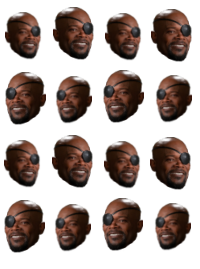
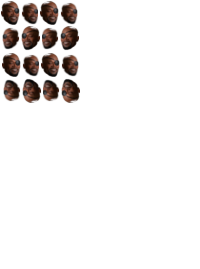
ajusta tamanho do nick e add fix bug a interface

diff --git a/src/Assemble/Action.cs b/src/Assemble/Action.cs
@@ -1,0 +1,25 @@
+using System;
+using System.Collections.Generic;
+using System.Linq;
+using System.Runtime.Serialization;
+using System.Text;
+using System.Threading.Tasks;
+
+namespace Assemble
+{
+    [DataContract]
+    public class Action
+    {
+        [DataMember(Name = "step")]
+        public string Step { get; set; }
+
+        [DataMember(Name = "cost")]
+        public int Cost { get; set; }
+
+        [DataMember(Name = "elemsToDestroy")]
+        public Point ElemToDestroy { get; set; }
+
+        [DataMember(Name = "kindToDestroy")]
+        public string KindToDestroy { get; set; }
+    }
+}

diff --git a/src/Assemble/Map.cs b/src/Assemble/Map.cs
@@ -104,7 +104,8 @@ namespace Assemble
                 case "MoveDown": return "s";
                 case "MoveLeft": return "w";
                 case "MoveRight": return "e"; 
-                case "Attack": return "attack";                   
+                case "Attack": return "attack";
+                case "FixBug": return "fix";
                 default: return "stop";
             }
         }
